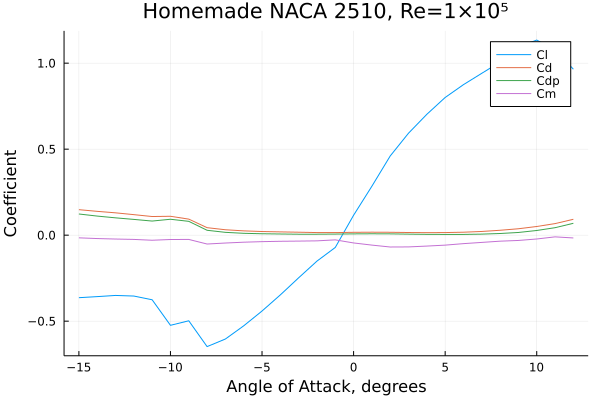
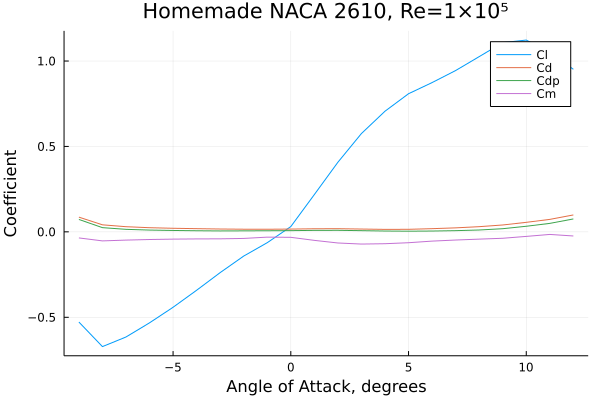
I meant to upload these files too.

diff --git a/Airfoil_Analysis.tex b/Airfoil_Analysis.tex
@@ -33,7 +33,7 @@ It can be seen that lift and drag force are both proportional to the square of v
 
 This project sought to identify how adjusting an airfoil's \hyperlink{c}{Chord}, or $c$, and \hyperlink{Camber}{Camber} can affect its performance, making it better suited for different environments. For this project, I downloaded the coordinates of a variety of different airfoils from the \href{https://m-selig.ae.illinois.edu/ads.html}{UIUC Applied Aeronautics Group} and then imported them to a julia program to calculate their \hyperlink{CL}{Lift Coefficient}, \hyperlink{CD}{Drag Coefficient}, \hyperlink{DP}{Pressure Drag Coefficient}, and \hyperlink{CM}{Moment Coefficient}. As can be seen from the included figures, these coefficients each changed with different angles of attack.\newline
 
-
+To solve this problem, I used the \href{https://docs.juliahub.com/Xfoil/Mlbda/0.4.0/}{Xfoil.jl} Julia wrapper. Xfoil can calculate an airfoil's lift, drag, moment, 
 
 Pairs of vortex rings can move together along a line, appearing to play leapfrog with each other. This phenomenon can occur when the circulation of one vortex ring pulls a second vortex ring forward, and once the second vortex ring has its own inertia moving it forward it begins to pull the first vortex ring. For this assignment, a set of 4 points marking the top and bottom of 2 vortex rings was modeled to leapfrog off of each other, and different graphs and GIFs were created of this behavior. The code used to solve this problem, as well as output data and graphs from the nine drafts of this project, can be found in the LeapFrog branch (\emph{JoeSpencer1-LeapFrog}) of this \href{https://github.com/JoeSpencer1/497R-Projects.git}{GitHub Repository}. \newline
 
